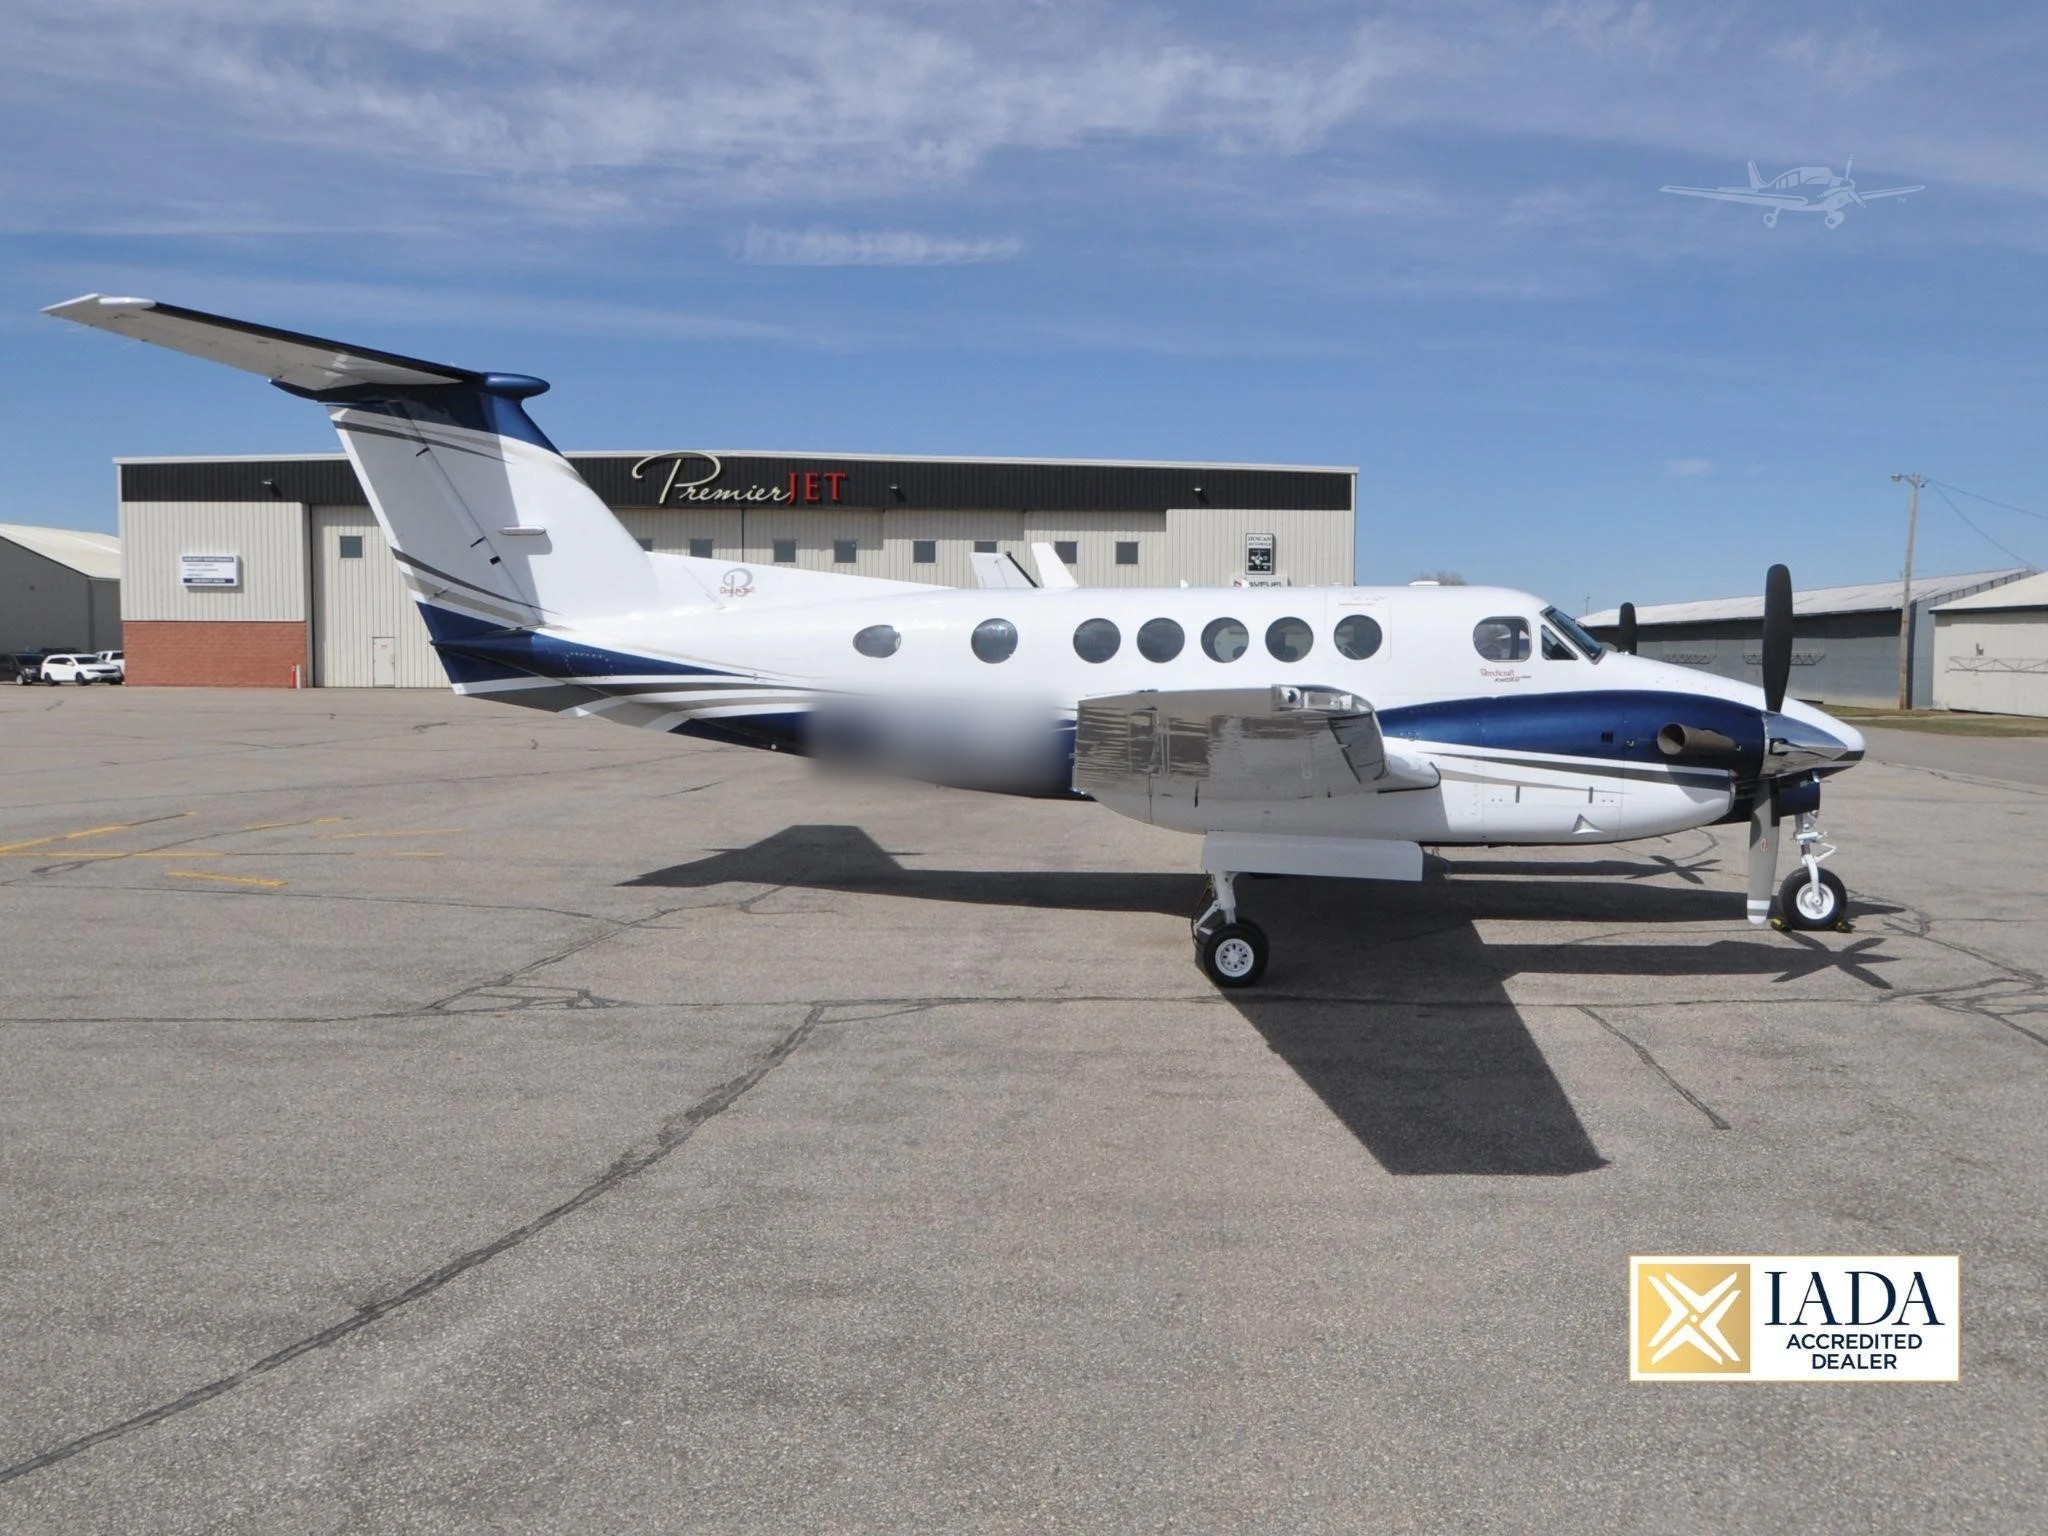
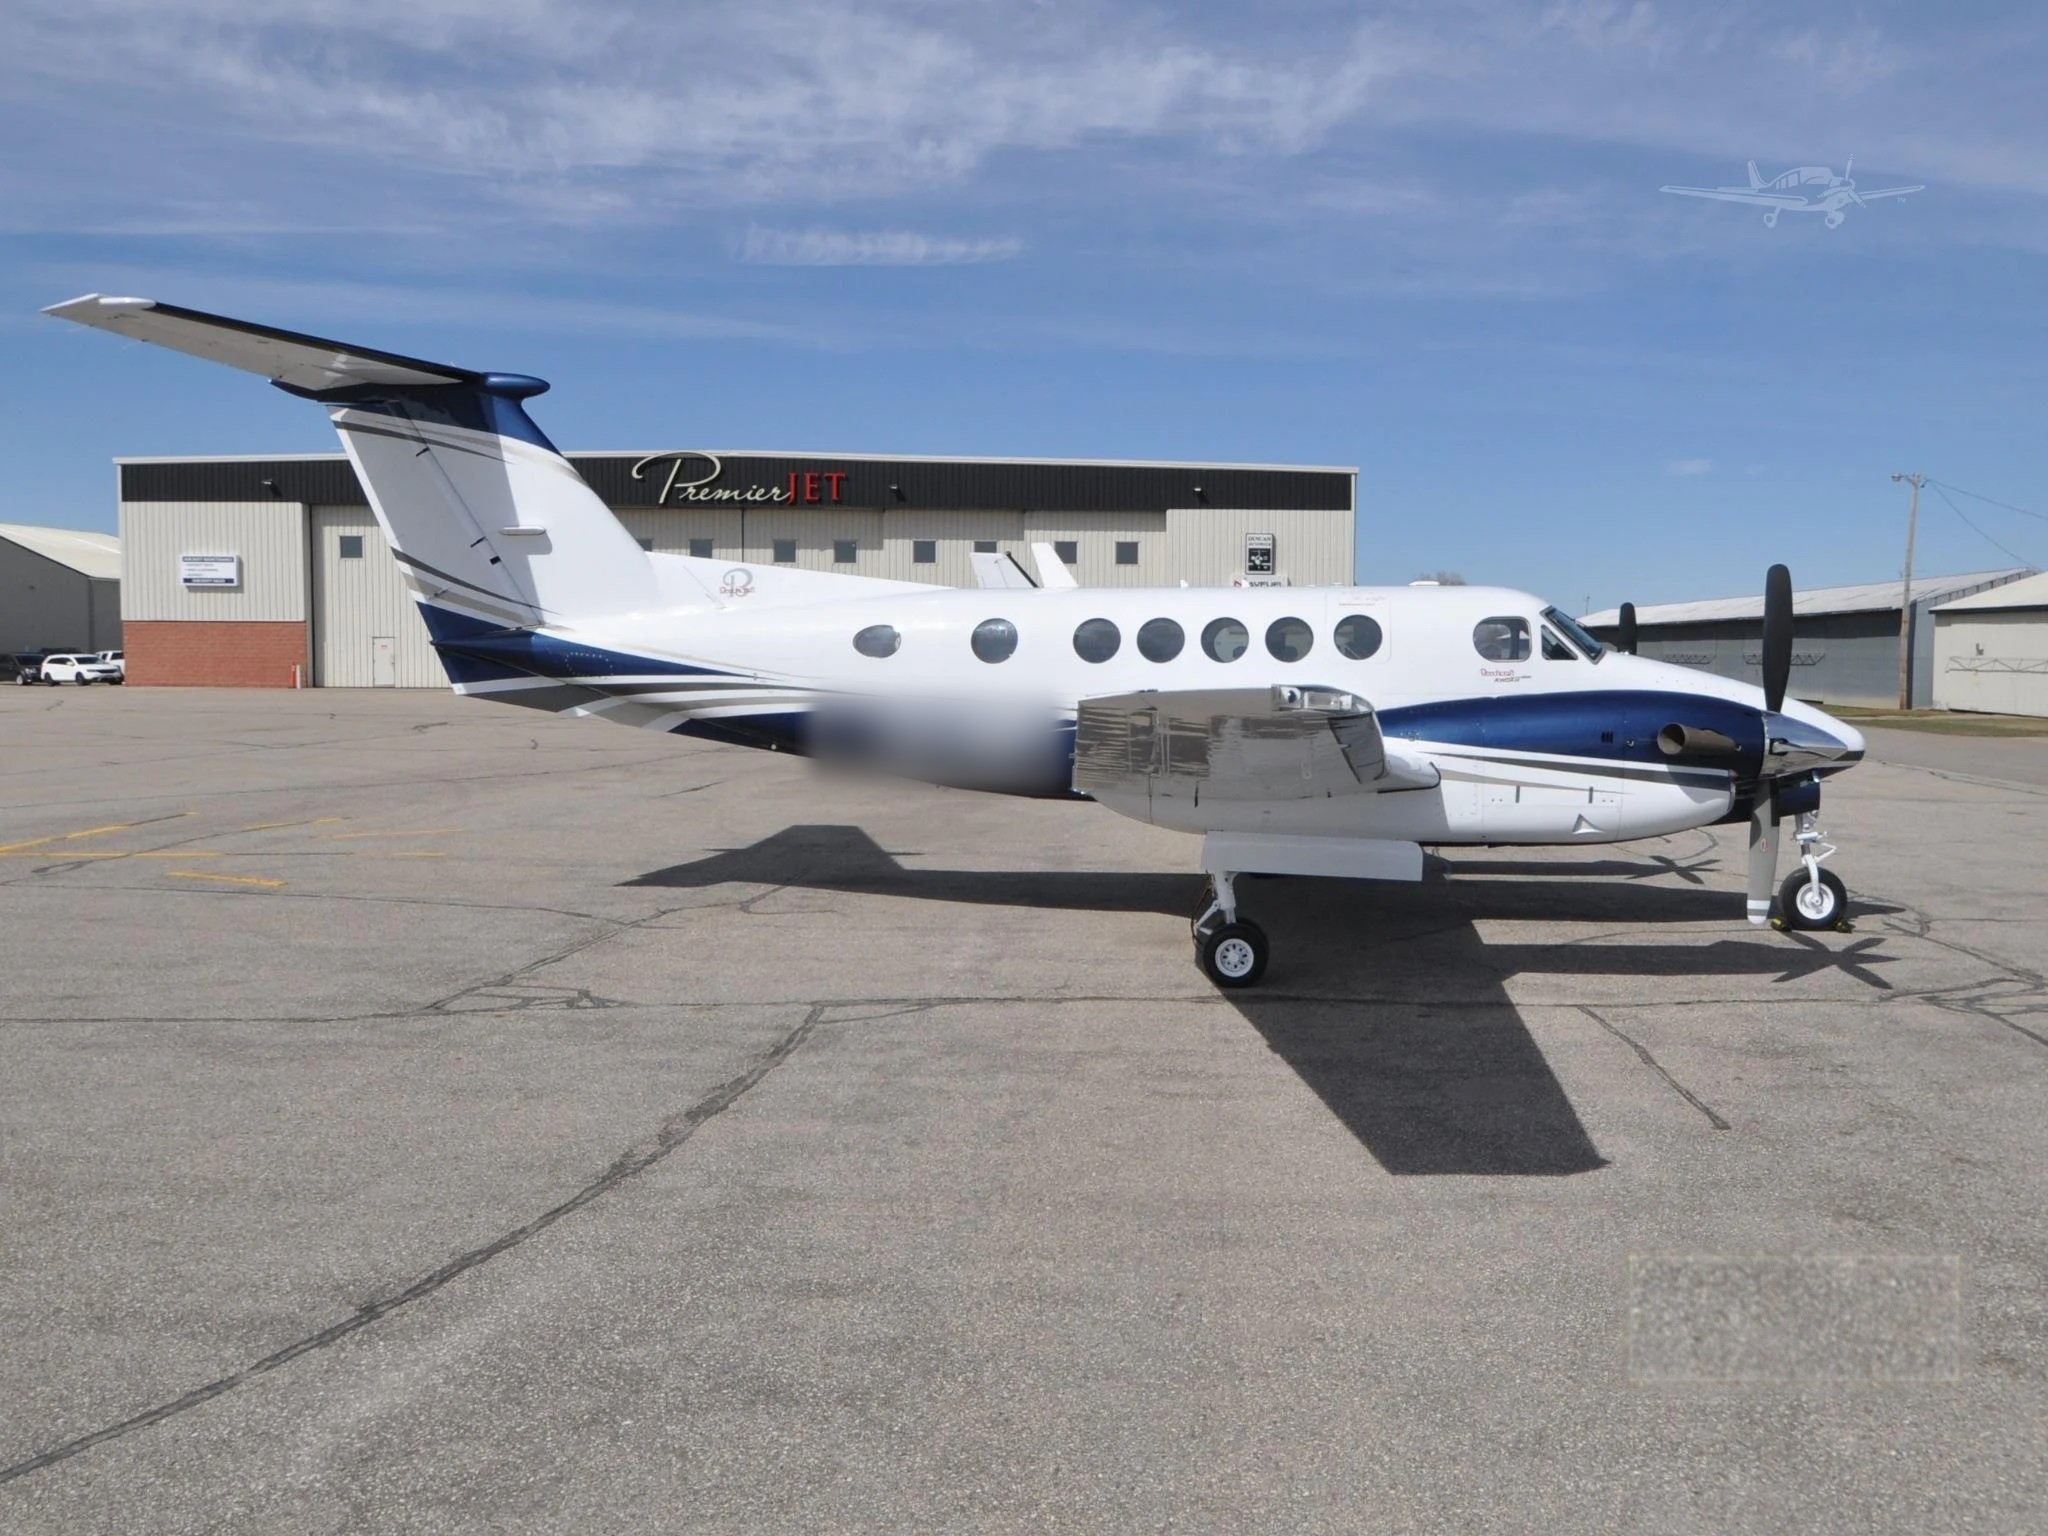
Corregir foto y texto del King Air B200: quitar sello IADA, 'listo para volar' y ajustar redacción de asientos

Changed region(s): [[0.7812, 0.8125, 0.9688, 0.9062]]

diff --git a/kingair-b200-import.html b/kingair-b200-import.html
@@ -168,7 +168,7 @@
                     <span class="status-badge" style="display: inline-block; margin-bottom: 20px;">🇺🇸 Fargo, North Dakota</span>
 
                     <p style="margin-bottom: 20px; line-height: 1.6; color: #ccc;">
-                        King Air B200 listo para trabajar, con base en Fargo, North Dakota (KFAR). Pintura e interior renovados en 2019 por Rose Aircraft. Abierto a ofertas y permutas (trades).
+                        King Air B200 listo para volar, con base en Fargo, North Dakota (KFAR). Pintura e interior renovados en 2019 por Rose Aircraft. Abierto a ofertas y permutas (trades).
                     </p>
 
                     <a href="https://wa.me/+5491158120277?text=Hola,%20quisiera%20consultar%20por%20el%20Beechcraft%20King%20Air%20B200%20para%20importar" target="_blank" class="btn-primary" style="width: 100%; text-align: center; margin-bottom: 30px; display: flex; justify-content: center; align-items: center;">
@@ -272,7 +272,7 @@
                         Este King Air B200 del año 2003 cuenta con un panel Collins ProLine II completo (dual EFIS-84), piloto automático APS-65, TCAS, EGPWS y ADS-B Out. Motores Pratt & Whitney PT6A-42 duales, ambos por debajo del TBO de 3,600 horas.
                     </p>
                     <p style="color: #ccc; line-height: 1.8;">
-                        Pintura nueva por Rose Aircraft en abril 2019 (blanco Matterhorn con franjas peltre y dorado) e interior renovado el mismo año, con asientos de cuero tan para 8 pasajeros.
+                        Pintura nueva por Rose Aircraft en abril 2019 (blanco Matterhorn con franjas peltre y dorado) e interior renovado el mismo año, con asientos de cuero para 8 pasajeros.
                     </p>
                     <p style="color: #ccc; line-height: 1.8;">
                         Con base en Fargo, North Dakota (KFAR). El vendedor está abierto a ofertas y permutas (trades). Todas las especificaciones sujetas a verificación por el comprador.
